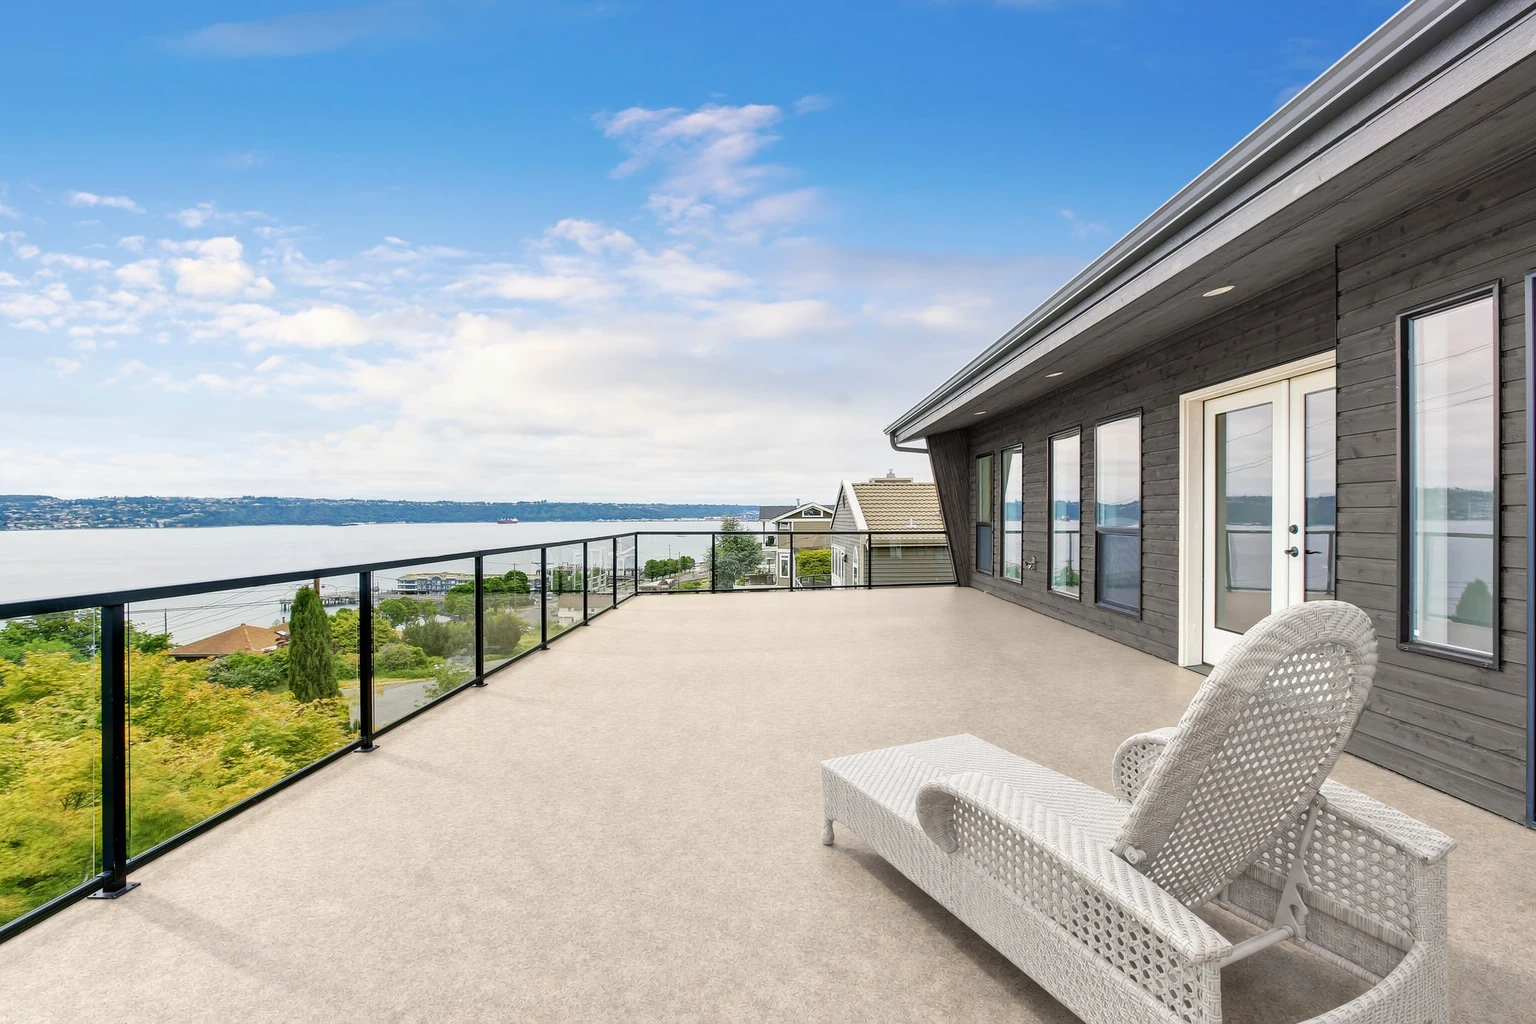
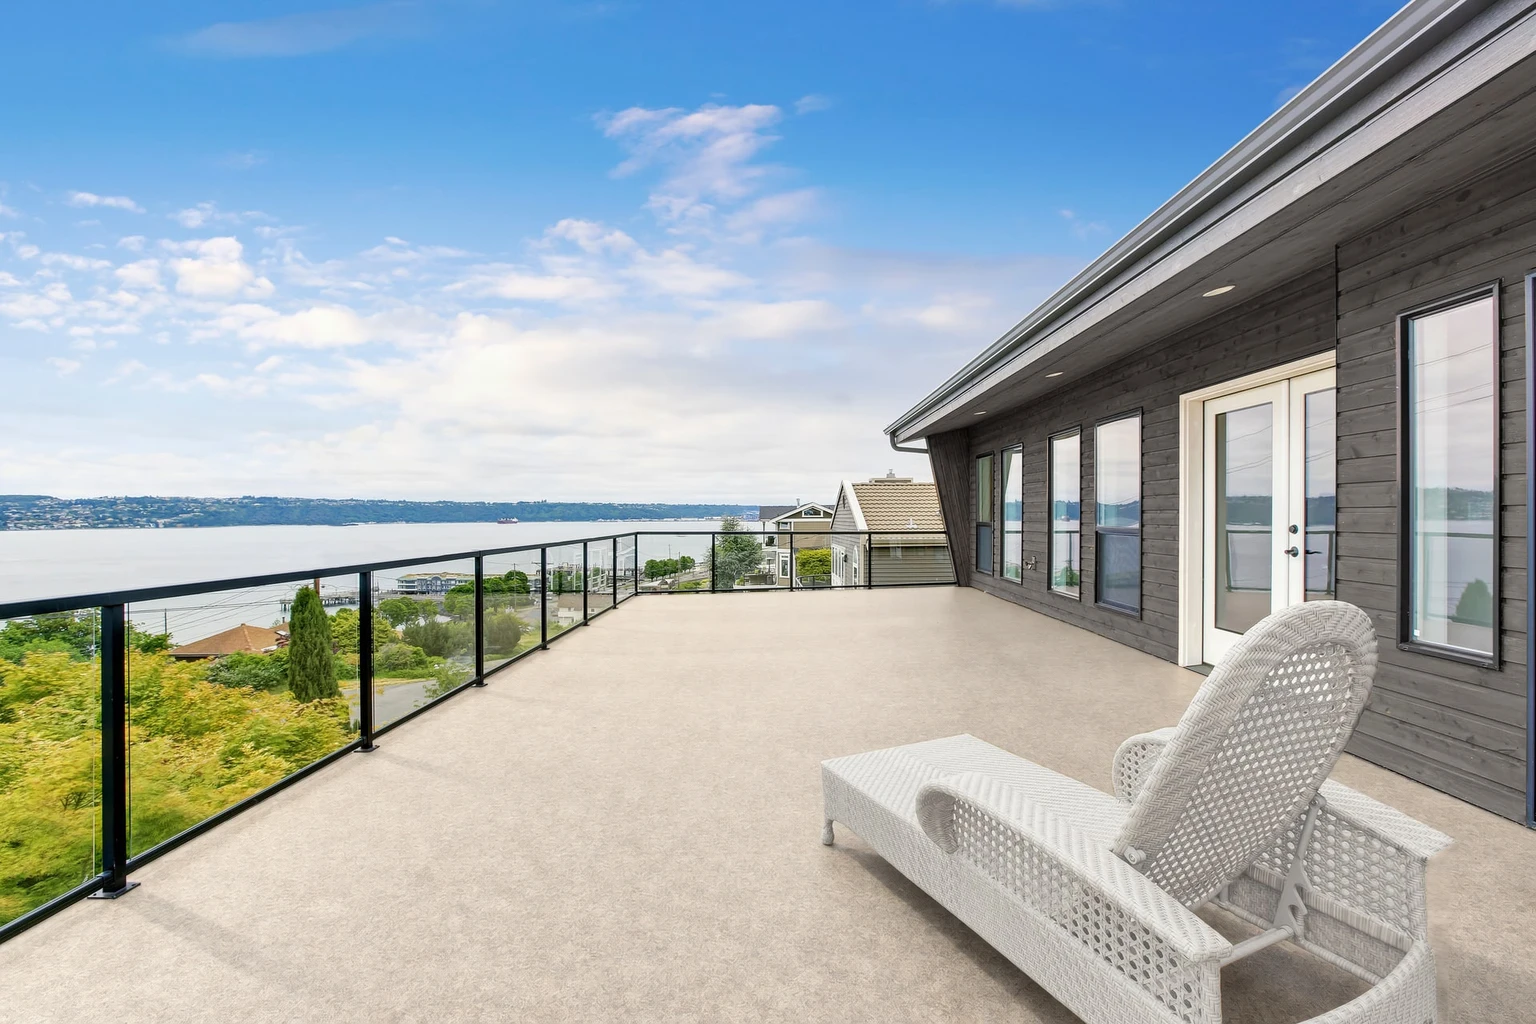
Oceanview: keep the lounger as photographed in every design
The relight was repainting the white lounger (greyed wicker, vinyl colour
in the weave) and the scene restore only covered the part of the backrest
above the house wall line, so a tone break ran across the chair back on
every design except Hansberry. The lounger now comes from the photo on all
14, and the floor strip beside the right armrest is vinyl instead of the
extra wicker the relight drew there.

Changed region(s): [[0.5938, 0.6562, 0.9688, 1.0]]

diff --git a/src/config/stockCombos.ts b/src/config/stockCombos.ts
@@ -38,20 +38,20 @@ export const STOCK_COMBOS: Record<string, string> = {
   "glassrail__speckled-stone-tan": "8d52dad0",
   "glassrail__urban-mist": "156deb52",
   "glassrail__walnut": "cd154502",
-  "lakeview__boardwalk": "aafa1d69",
-  "lakeview__driftwood": "b0b519c2",
-  "lakeview__granite-brown": "162b6a00",
-  "lakeview__granite-grey": "1a691a4f",
-  "lakeview__granite-silver": "feda911d",
-  "lakeview__granite-tan": "d24742c8",
-  "lakeview__hansberry": "a1c594aa",
-  "lakeview__ipe": "4bfffa48",
-  "lakeview__speckled-stone-brown": "a33fcb24",
-  "lakeview__speckled-stone-grey": "d3b601df",
-  "lakeview__speckled-stone-silver": "14c339a5",
-  "lakeview__speckled-stone-tan": "d69125b1",
-  "lakeview__urban-mist": "15004236",
-  "lakeview__walnut": "5ed9458c"
+  "lakeview__boardwalk": "20b0a2b3",
+  "lakeview__driftwood": "c4b702ba",
+  "lakeview__granite-brown": "0474f345",
+  "lakeview__granite-grey": "3641c63b",
+  "lakeview__granite-silver": "090fbe5c",
+  "lakeview__granite-tan": "1c35e2b4",
+  "lakeview__hansberry": "a5e18e34",
+  "lakeview__ipe": "115c2dbe",
+  "lakeview__speckled-stone-brown": "63fd4f3c",
+  "lakeview__speckled-stone-grey": "38661a12",
+  "lakeview__speckled-stone-silver": "9eda56a0",
+  "lakeview__speckled-stone-tan": "384dcad1",
+  "lakeview__urban-mist": "f23197e9",
+  "lakeview__walnut": "0107fdc0"
 };
 
 export function hasStockCombo(layoutId: string, sku: string): boolean {
